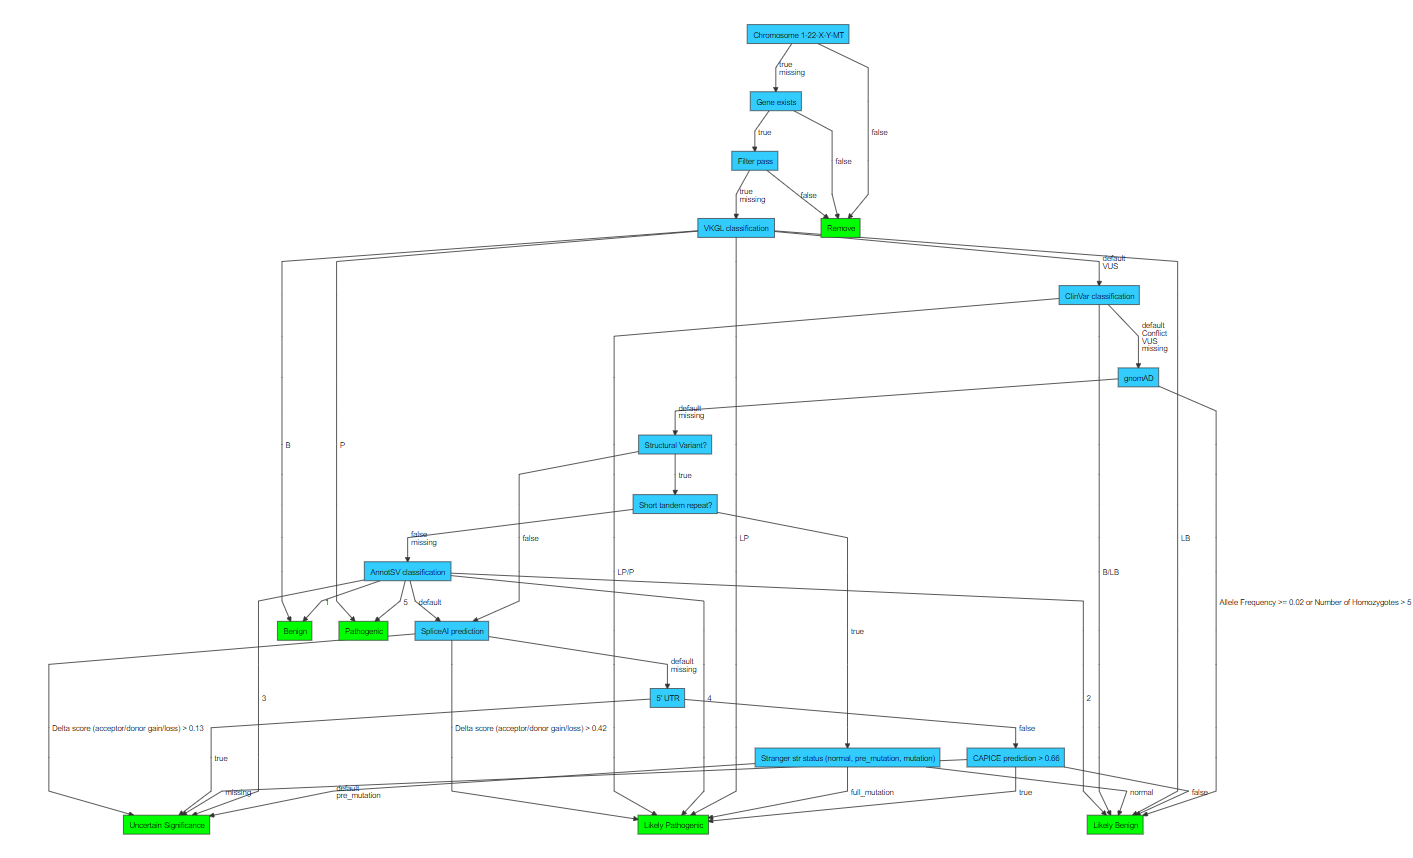
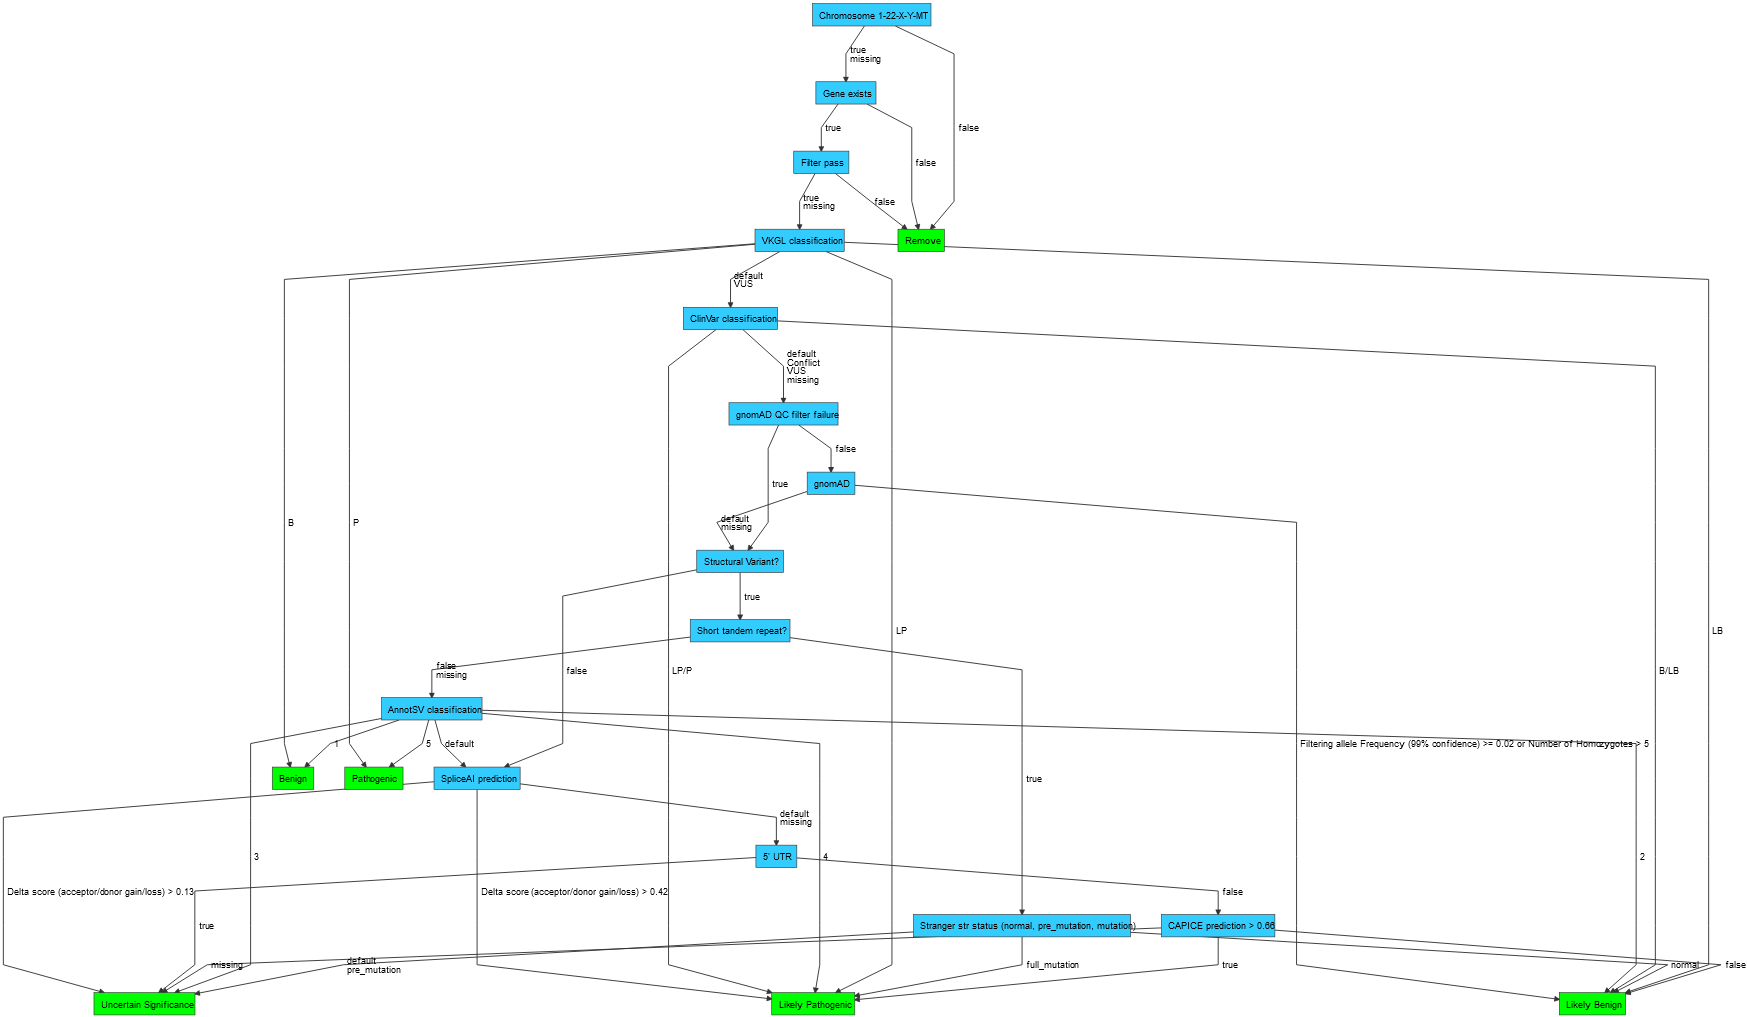
update docs

diff --git a/docs/advanced/annotations.md b/docs/advanced/annotations.md
@@ -49,8 +49,13 @@ check the output file headers for the complete overview. Similarly, some annotat
 | INFO/CSQ/GADO_PD                            | categorical      | VEP plugin                                                                      | [GADO](https://www.genenetwork.nl/gado) prediction for the relation between the HPO terms of the proband(s) and the gene, HC: high confidence, LC: low confidence. Categories: LC, HC                                                                                                                                         |
 | INFO/CSQ/GADO_SC                            | float            | VEP plugin                                                                      | The combined prioritization GADO Z-score over the HPO of the proband(s) terms for this case                                                                                                                                                                                                                                   |
 | INFO/CSQ/Gene                               | string           | VEP                                                                             | Ensembl stable ID of affected gene                                                                                                                                                                                                                                                                                            |
+| INFO/CSQ/gnomAD_COV                         | float            | VEP plugin                                                                      | gnomAD coverage (percent of individuals in gnomAD source)                                                                                                                                                                                                                                                                     |
 | INFO/CSQ/gnomAD_AF                          | float            | VEP plugin                                                                      | gnomAD allele frequency                                                                                                                                                                                                                                                                                                       |
+| INFO/CSQ/gnomAD_FAF95                       | float            | VEP plugin                                                                      | gnomAD filter allele frequency (95% confidence)                                                                                                                                                                                                                                                                               |
+| INFO/CSQ/gnomAD_FAF99                       | float            | VEP plugin                                                                      | gnomAD filter allele frequency (99% confidence)                                                                                                                                                                                                                                                                               |
 | INFO/CSQ/gnomAD_HN                          | integer          | VEP plugin                                                                      | gnomAD number of homozygotes                                                                                                                                                                                                                                                                                                  |
+| INFO/CSQ/gnomAD_QC                          | string list      | VEP plugin                                                                      | gnomAD quality control filters that failed                                                                                                                                                                                                                                                                                    |
+| INFO/CSQ/gnomAD_SRC                         | categorical      | VEP plugin                                                                      | gnomAD source (E=exomes, G=genomes, T=total)                                                                                                                                                                                                                                                                                  |
 | INFO/CSQ/Grantham                           | string           | VEP plugin                                                                      | Grantham Matrix score - Grantham, R. Amino Acid Difference Formula to Help Explain Protein Evolution, Science 1974 Sep 6;185(4154):862-4                                                                                                                                                                                      |
 | INFO/CSQ/HGNC_ID                            | integer          | VEP                                                                             | HGNC gene identifier                                                                                                                                                                                                                                                                                                          |
 | INFO/CSQ/HGVS_OFFSET                        | string           | VEP                                                                             | Indicates by how many bases the HGVS notations for this variant have been shifted                                                                                                                                                                                                                                             |
